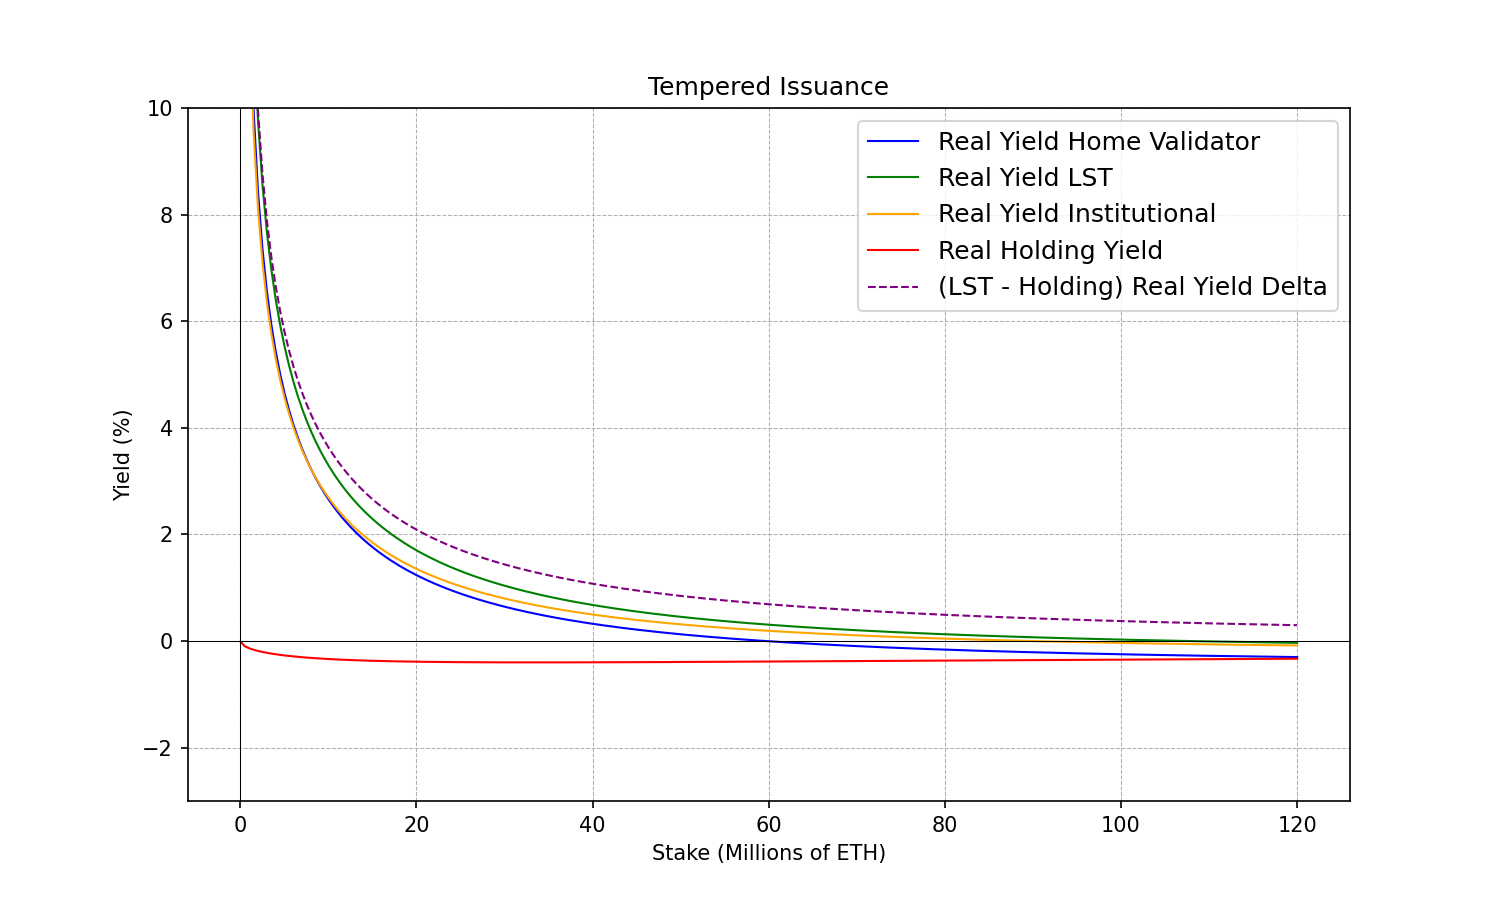
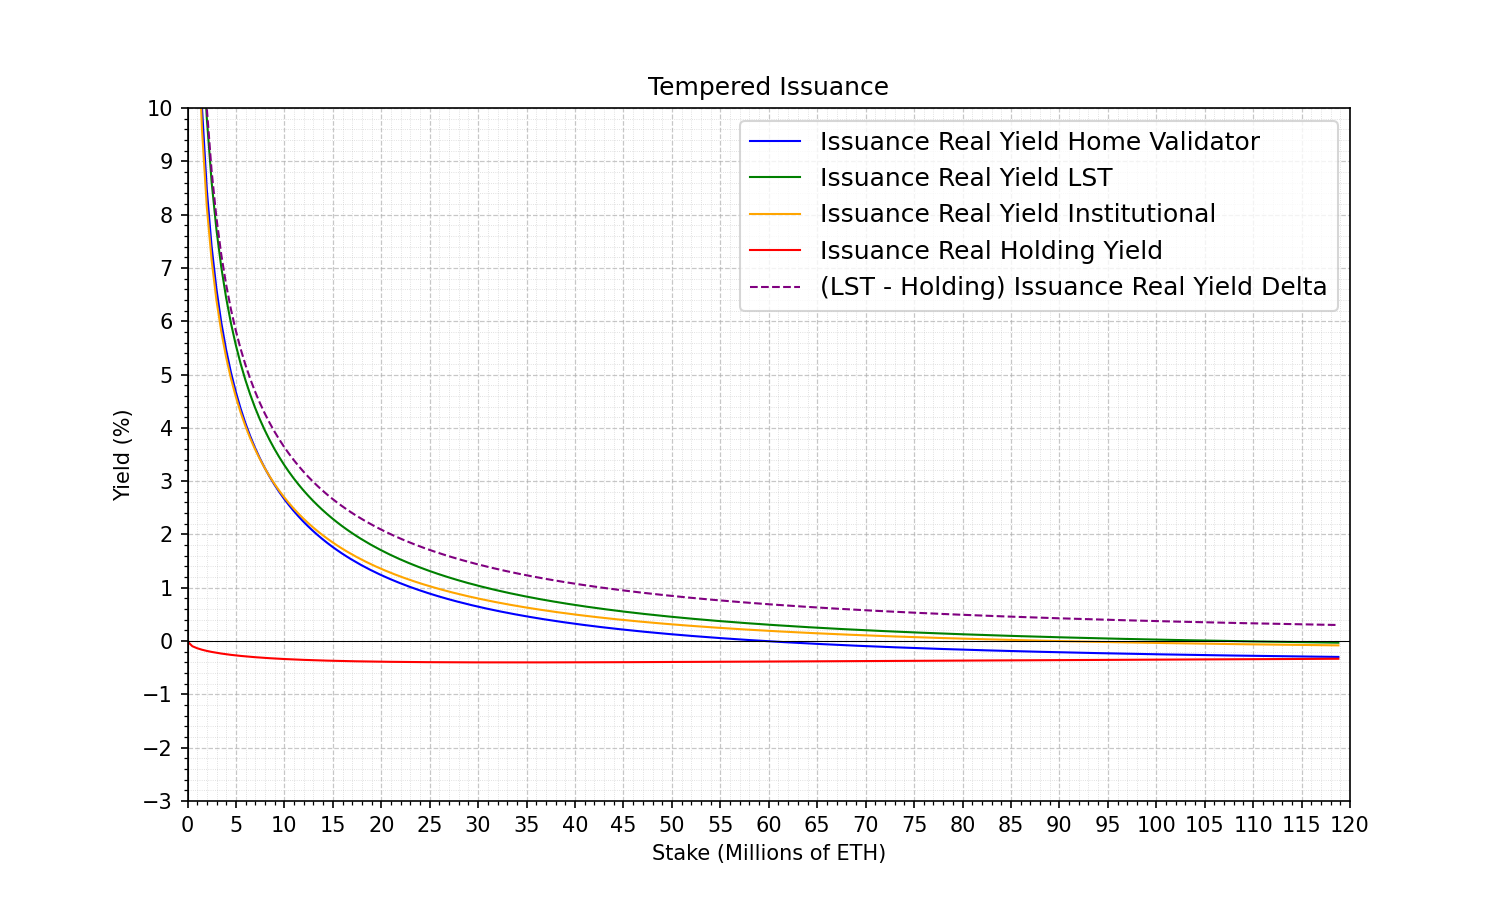
some progress

diff --git a/plots/real_yield_plot.py b/plots/real_yield_plot.py
@@ -1,7 +1,7 @@
 import matplotlib
 matplotlib.use('TkAgg')
 import matplotlib.pyplot as plt
-from matplotlib.ticker import FuncFormatter
+from matplotlib.ticker import FuncFormatter, MultipleLocator, AutoMinorLocator
 import numpy as np
 from yields import real_issuance_yield, effective_holding_yield
 from common import CIRCULATING_SUPPLY, percentage_yield
@@ -58,12 +58,22 @@ def plot(yield_curve: Callable,
     plt.title(title)
 
     plt.gca().xaxis.set_major_formatter(FuncFormatter(stake_formatter))
+
+    plt.gca().xaxis.set_major_locator(MultipleLocator(5_000_000))
+    plt.gca().yaxis.set_major_locator(MultipleLocator(1))
     plt.xlabel('Stake (Millions of ETH)')
     plt.ylabel('Yield (%)')
     plt.ylim(top=10, bottom=-3)
-    plt.grid(True, which='both', linestyle='--', linewidth=0.5)
+    plt.xlim(left=0, right=120_000_000)
     plt.axhline(y=0, color='k', linewidth=0.5)
     plt.axvline(x=0, color='k', linewidth=0.5)
+
+    plt.gca().xaxis.set_minor_locator(AutoMinorLocator(5))
+    plt.gca().yaxis.set_minor_locator(AutoMinorLocator(5))
+    plt.gca().grid(True, which='major', linestyle='--', linewidth=.6, alpha=.7)
+    plt.gca().grid(True, which='minor', linestyle=':', linewidth=.4, alpha=.5)
+
+
     plt.legend(fontsize=12)
     plt.show()
     fig.savefig(f'./{filename}', dpi=fig.dpi)

diff --git a/README2.md b/README2.md
@@ -153,6 +153,18 @@ $i(s) = R i_r(s) -  B i_b(s)$
 By tweaking the analytic form of the 2 terms we can ensure that $i_b(s)$ overpowers $i_r(s)$ at a sufficiently high stake,
 effectively implementing stake capping.
 
+> NOTE: Today (Pectra hard-fork), the consensus layer does not know the circulating supply of Ethereum, and therefore the issuance curve
+must be defined in terms of total amount of ETH staked, as shown in the equation above.
+>
+> In this form, stake capping targets a maximum amount of ETH staked, but cannot truly target a percentage of the
+> circulating supply of ETH staked. 
+> If we were to implement the necessary technical changes to provide the circulating supply to the consensus layer, 
+> we could implement proper stake rate capping. This approach would be preferred and provides for a more elegant design, 
+> that is resilient under circulating supply changes. A minimal tweak to the issuance curve formula proposed above 
+> to rely on the ratio between the amount of ETH staked vs. circulating supply would suffice.
+> 
+> The discussion on this note and the conclusions that derive from it are equally applicable.
+
 By tweaking the ratio between the pre-factors of each term we can set the stake cap wherever we may need it. And by applying
 a global factor to both we can set the desired yield at a particular stake rate. The following curve has been tweaked
 to have the following properties:
@@ -262,22 +274,77 @@ with a significant reduction in the inflation rate.
 
 ## Real Yields
 
-We started the discussion by introducing real yields and how the difference between the real yield of holding
-and staking defines a risk premium. We will now carefully review the real yields of the different curves to emphasize the
+An in-depth review of the concept of real yield and how it's calculated is provided in [https://ethresear.ch/t/the-shape-of-issuance-curves-to-come/20405](https://ethresear.ch/t/the-shape-of-issuance-curves-to-come/20405).
+
+The TL;DR is very simple, by real yield we mean the yield after costs and net of dilution effects due to supply changes.
+If this number is negative it means that after expenses your income from staking is lower than the inflation rate of the network,
+so you are not even earning enough ETH to compensate for the supply increase.
+
+We will now carefully review the real yields of different curves to emphasize the
 negative externalities of yield curves that do not implement stake capping and illustrate how introducing stake capping solves them.
+
+> Disclaimer: The real yield of different stakers presented below should be seen as representative probes of the real yield
+observed by that type of staker, given their typical cost structure. But mileage may vary, your specific real yield could be different depending on your
+cost structure. You can review the assumptions or tweak them to fit your circumstances here: [cost_structure.py](./cost_structure.py)
 
 ### Ethereum's Issuance Real Yields
 
+The following plot presents the real yield curves of three different types of stakers, based on their typical cost structures.
+Together with the real yield of an ETH holder and the difference between the real yields of an LST and holding ETH, which
+measures the risk premium of staking ETH via an LST.
+
 ![Ethereum's Real Yields Plot](plots/ethereum_issuance/ethereum_real_yield_plot.png)
+
+**Observations:**
+
+- The yield difference of staking with an LST vs. holding never goes below ~1.5%. If the risk premium of staking ETH were drop
+below 1.5% we could face very high stake rates.
+- At around 80M ETH staked, the real yield of solo staking goes negative.
+- At around 110M ETH staked, the real yield of staking with an LST goes negative. At which point every staker receives
+negative real yield, and so do holders. Where is the money going? HW vendors, ISPs, and taxes, primarily.
+- The large gap between solo stakers and LSTs receiving negative real yields creates
+a regime where solo stakers are pushed out of the validator set but LSTs can still be viable. Resulting in a centralization
+threat to the network.
 
 ### Quadratic Burn Proposal Real Yields
 
 ![Quadratic Burn Proposal Real Yields Plot](plots/quadratic_burn/ethereum_real_yield_with_burn_plot.png)
 
+**Observations:**
+
+- This issuance curve implements stake capping. At 50M ETH staked, the issuance yield goes to 0%. And beyond that it turns
+negative. Being able to compensate for large amounts of exogenous yield.
+- The ranges at which all types of stakers go to negative real yields have compressed significantly and happen very close
+to the stake cap.
+  - Avoids a large regime where solo stakers are pushed out of the validator set.
+  - It also means that staking can provide positive real yield for every staker even if the risk premium were to drop as low as 0.5%.
+
 ### Log Burn Proposal Real Yields
 
 ![Log Burn Proposal Real Yields Plot](plots/ethereum_issuance_with_stake_burn_adjusted/ethereum_real_yield_with_burn_plot.png)
 
+**Observations:**
+
+- This issuance curve implements stake capping. At ~55M ETH staked, the issuance yield goes to 0%. And beyond that it turns
+negative.
+- The slope towards negative yields is gentler than the example with quadratic burn. This results in the following:
+  - Less exogenous yield could be burnt, up to 3%. Exogenous yields above that could cause runaway stake rates.
+  - The gentler slope means that the range at which solo stakers observe negative real yields vs. LSTs widens with respect
+  to the quadratic burn. But it's significantly tighter than with no capping.
+
+
 ### Tempered Issuance Real Yields
 
 ![Tempered Issuance Real Yields Plot](plots/tempered_issuance/tempered_issuance_real_yield_plot.png)
+
+- Tempered issuance does not implement stake capping. Having a minimum risk premium of around ~0.5%. Arguably quite low
+but not 0%. If the risk premium of staking were to drop below that point it could face very high stake rates.
+- At around ~60M ETH, solo staking observes negative real yields which could cause solo stakers to get pushed out of the 
+validator set.
+- While LSTs remain viable until extremely high stake rates.
+- Two effects are at play that caused an increase of the gap between solo staking crossing 0% real yield and LSTs.
+  - Tempered issuance has a very gentle slope of the real yield at high stake rates. Gentler slopes tend to widen the gap. For contrast, check
+  the quadratic stake burn curve. An aggressive slope down causes all types of stakers to get pushed down at the same time.
+  - Tempered issuance, with the default parameters, provides very low nominal yield. Low nominal yields tend to kick out
+  solo stakers first, because the cost structure of solo stakers has a higher component of fixed costs. If the yield is
+  small enough fixed costs will eat it away.
